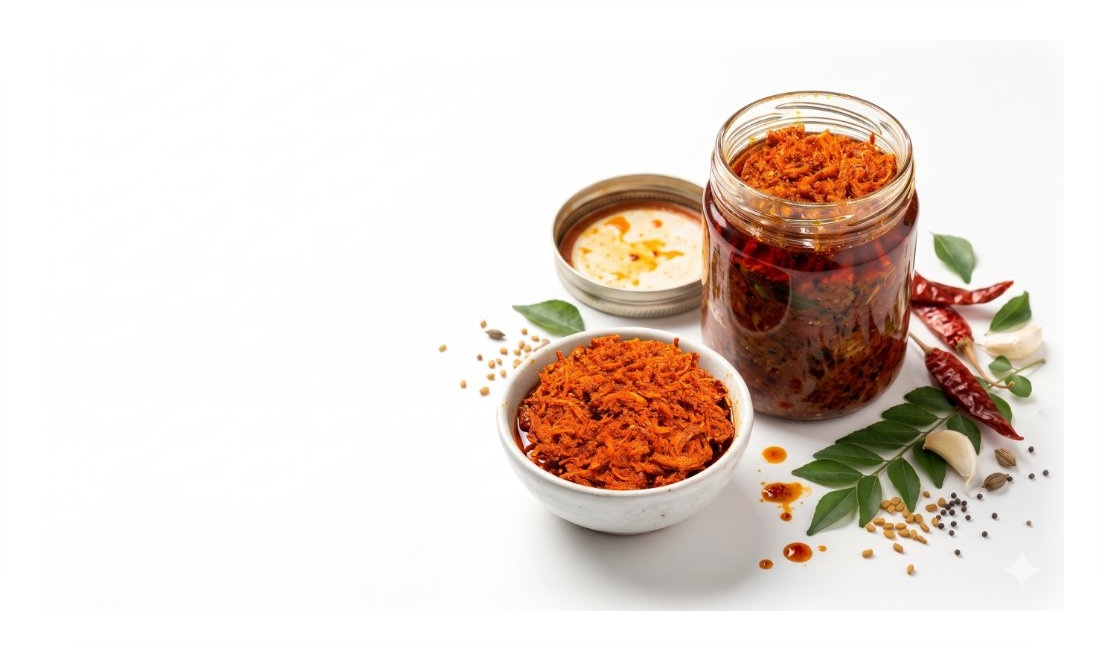
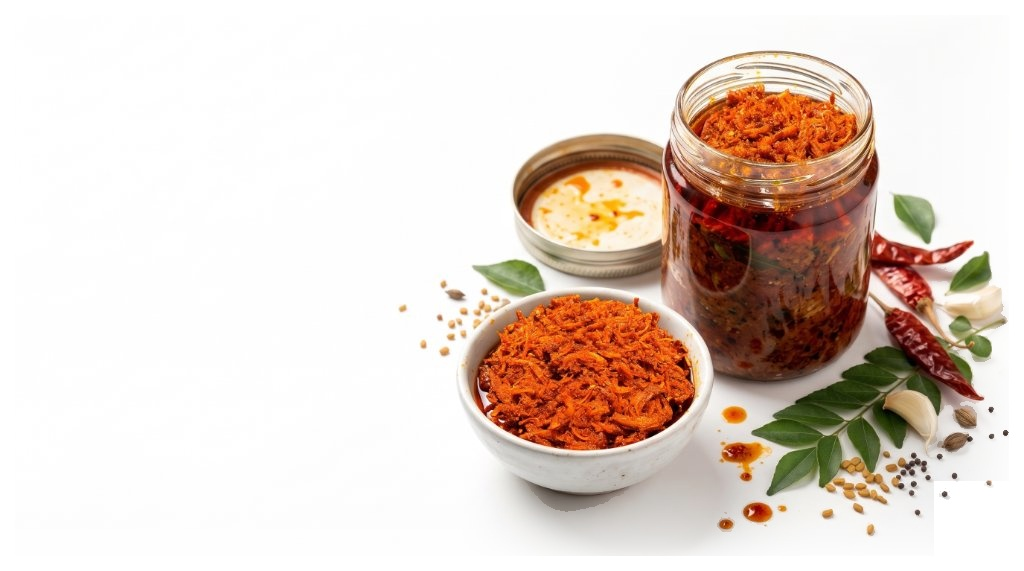
fix(home): retouch tabletop shadow, remove watermark, and apply radial mask to dissolve all edge lines

Changed region(s): [[0.375, 0.0893, 1.0, 0.9825], [0.8438, 0.9229, 0.875, 0.9527], [0.4062, 0.4764, 0.4375, 0.5061]]

diff --git a/wangs_frontend/src/pages/HomePage.jsx b/wangs_frontend/src/pages/HomePage.jsx
@@ -777,9 +777,13 @@ export default function HomePage() {
               <div className="relative w-full flex items-center justify-center lg:justify-end">
                 {/* Original pristine studio photography on matching pure white background with seamless edge blending */}
                 <img
-                  src="/images/hero/wangs_signature_pickle_hero.jpg?v=2"
+                  src="/images/hero/wangs_signature_pickle_hero.jpg?v=3"
                   alt="Authentic handcrafted Indian heritage artisanal pickle in glass jar with whole spices"
                   className="w-full max-w-[700px] lg:max-w-none lg:w-[125%] xl:w-[130%] h-auto object-contain select-none transition-transform duration-700 hover:scale-[1.03]"
+                  style={{
+                    WebkitMaskImage: 'radial-gradient(ellipse 95% 90% at 55% 48%, black 72%, transparent 100%)',
+                    maskImage: 'radial-gradient(ellipse 95% 90% at 55% 48%, black 72%, transparent 100%)',
+                  }}
                 />
 
                 {/* Subtle Floating Sun-Cured Pill Accent */}
